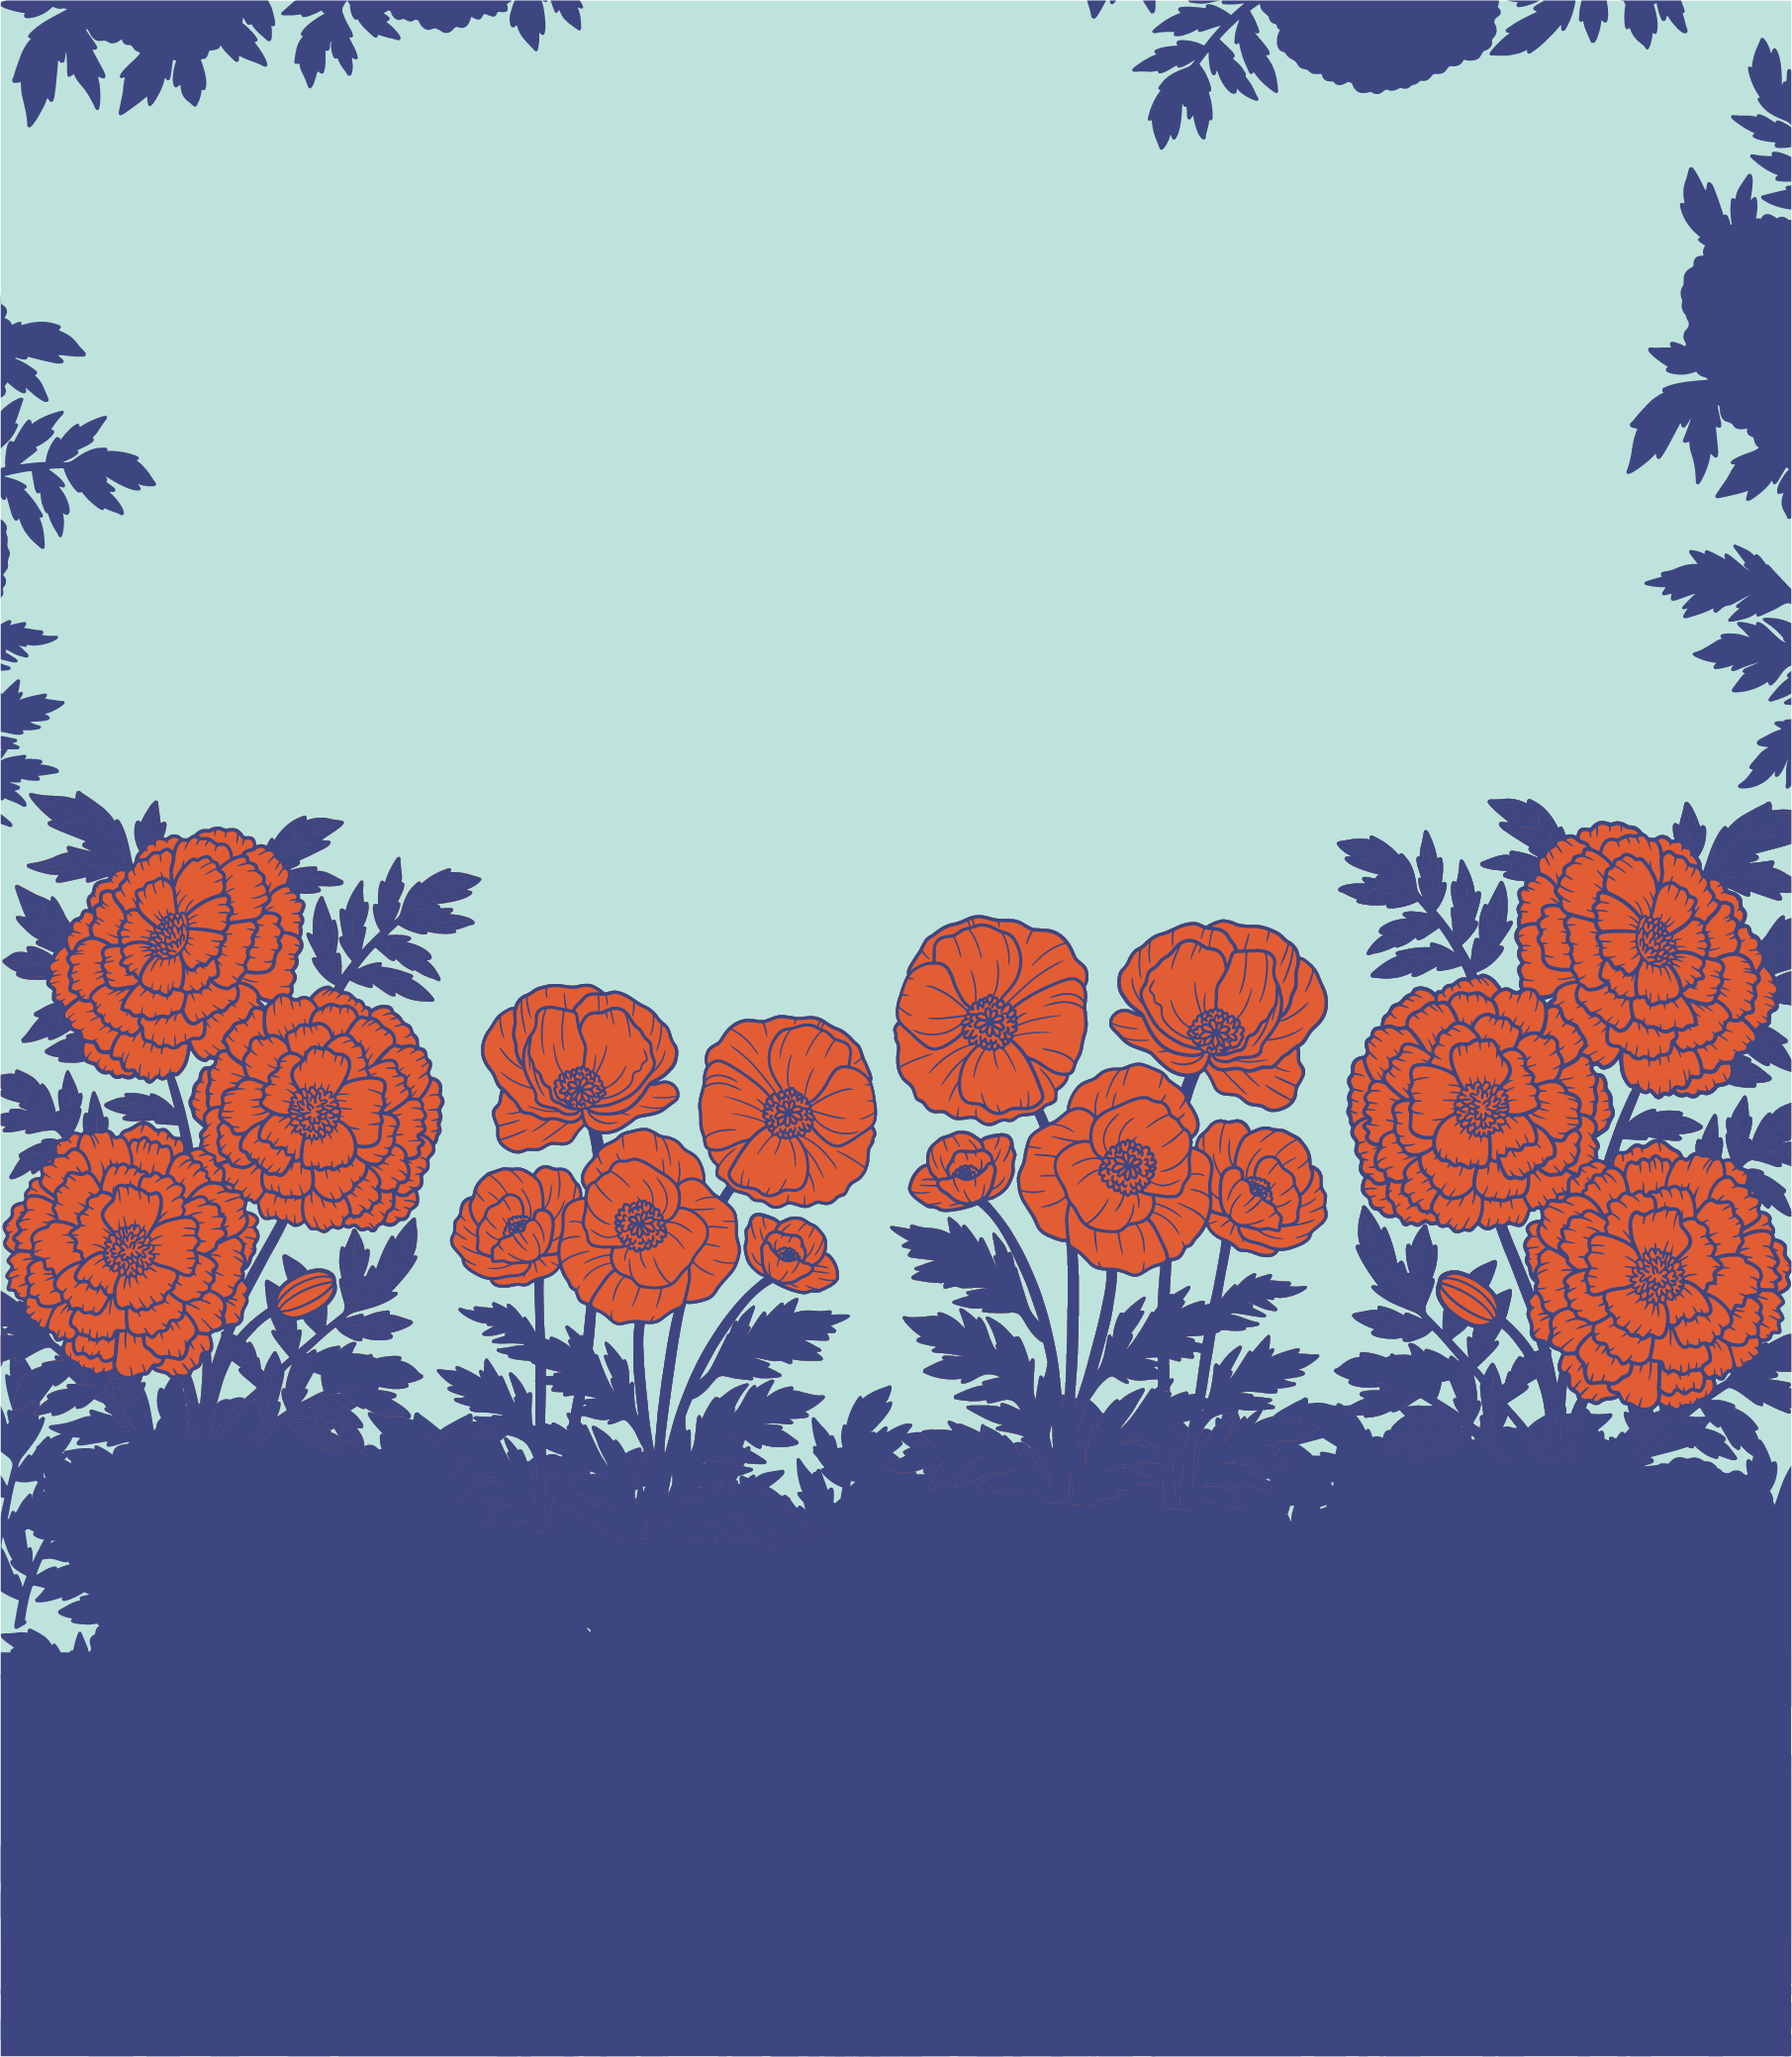
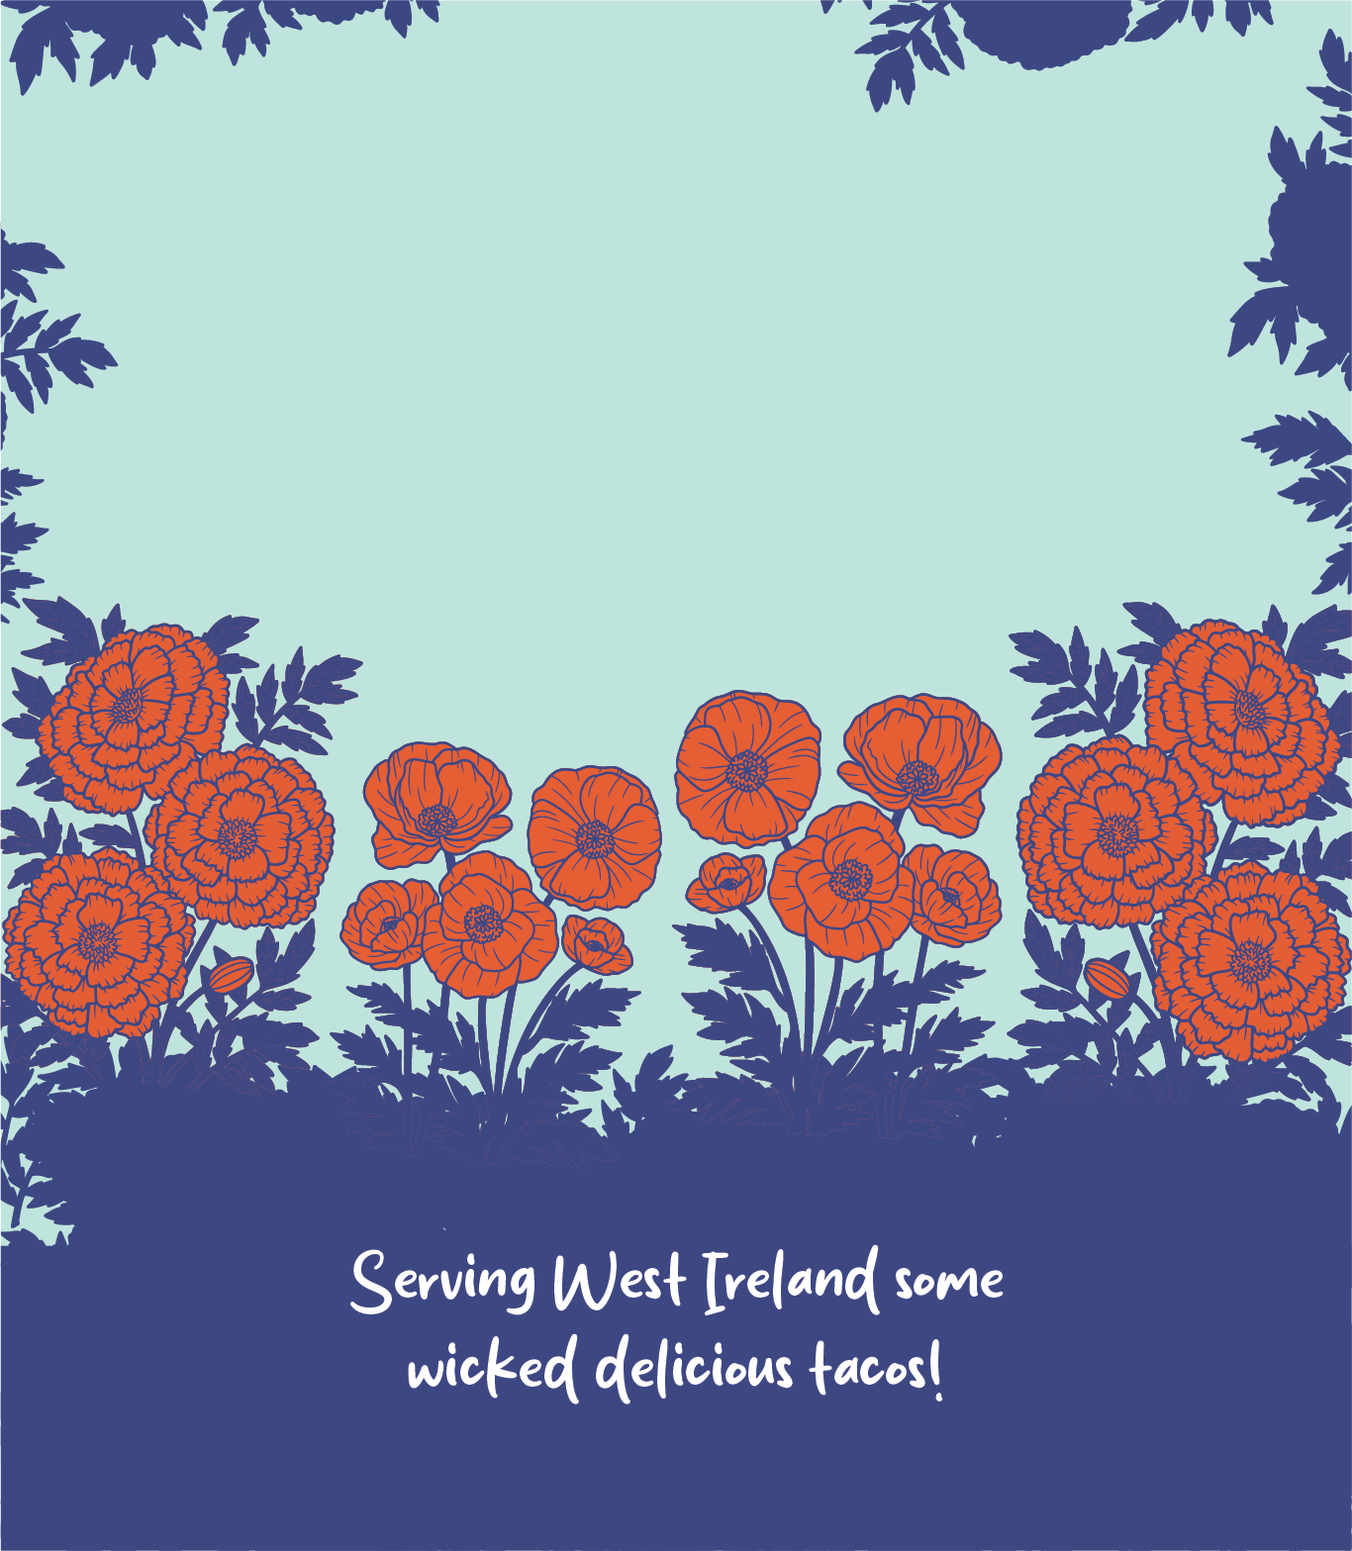
new home screen background and responsive styling

diff --git a/src/css/home.css b/src/css/home.css
@@ -61,10 +61,7 @@ a{
 }
 
 .home-logo{
-  width: 50%;
-  height: auto;
   position: absolute;
-  top: 15%;
   left: 50%;
   transform: translateX(-50%);
 }
@@ -97,7 +94,18 @@ a{
   align-items: center;
 }
 
-@media screen and (max-width: 479px) {
+@media screen and (max-width: 380px){
+  .home-background{
+    width: auto;
+    height: 100%;
+  }
+
+  .home-logo{
+    width: 50%;
+    height: auto;
+    top: 150px;
+  }
+
   .home-text{
     font-size: 8vw;
     width: 70%;
@@ -117,6 +125,78 @@ a{
   .home-lower-text{
     font-size: 3vw;
     margin: 10% 0 10% 0;
+  }
+
+  .bottom-flourish{
+    margin-bottom: 10%;
+  }
+}
+
+@media screen and (min-width: 380px) and (max-width: 479px) {
+  .home-logo{
+    width: 50%;
+    height: auto;
+    top: 130px;
+  }
+
+  .home-text{
+    font-size: 8vw;
+    width: 70%;
+  }
+
+  .truck-gif{
+    margin: 10% 0 10% 0;
+    width: 100%;
+    height: auto;
+  }
+
+  .flourish{
+    width: 30%;
+    height: auto;
+  }
+
+  .home-lower-text{
+    font-size: 3vw;
+    margin: 10% 0 10% 0;
+  }
+
+  .bottom-flourish{
+    margin-bottom: 10%;
+  }
+}
+
+@media screen and (min-width:480px) and (max-width: 768px){
+  .home-background{
+    width: 100%;
+    height:auto;
+  }
+
+  .home-logo{
+    width: 40%;
+    height: auto;
+    top: 60px;
+  }
+  
+  .home-text{
+    font-size: 8vw;
+    width: 70%;
+  }
+
+  .truck-gif{
+    margin: 10% 0 10% 0;
+    width: 100%;
+    height: auto;
+  }
+
+  .flourish{
+    width: 30%;
+    height: auto;
+  }
+
+  .home-lower-text{
+    font-size: 2.4vw;
+    margin: 10% 0 10% 0;
+    width: 65%;
   }
 
   .bottom-flourish{

diff --git a/src/css/footer.css b/src/css/footer.css
@@ -50,7 +50,7 @@ a{
 @media screen and (max-width: 479px) {
     .footer-logo{
         width: 30%;
-        margin: 5% 0 5% 0;
+        margin: 10% 0 5% 0;
     }
 
     .footer-contact-wrapper{
@@ -73,6 +73,40 @@ a{
 
     .footer-social-wrapper{
         margin-bottom: 10%;
+    }
+
+    .social{
+        transform: scale(2);
+        margin: 0 20px 0 20px;
+    }
+}
+
+@media screen and (min-width:480px) and (max-width: 768px){
+    .footer-logo{
+        width: 15%;
+        margin: 5% 0 2.5% 0;
+    }
+
+    .footer-contact-wrapper{
+        width: 100%;
+        margin-bottom: 3%;
+    }
+
+    .footer-text{
+        font-size: 3vw;
+        margin-bottom: 1.5%;
+    }
+
+    .footer-email, .divider{
+        font-size: 1.25vw;
+    }
+
+    .footer-contact-text{
+        font-size: 1.25vw;
+    }
+
+    .footer-social-wrapper{
+        margin-bottom: 5%;
     }
 
     .social{

diff --git a/src/css/menu.css b/src/css/menu.css
@@ -78,3 +78,44 @@
         height: 27px;
     }
 }
+
+@media screen and (min-width: 480px) and (max-width: 768px){
+    .header-text{
+        font-size: 2vw;
+    }
+
+    .menu-item{
+        width: 50%;
+    }
+
+    .menu-filler{
+        width: 10%;
+        margin-right: 5%;
+        margin-left: 10%;
+    }
+
+    .menu-banner{
+        width: auto;
+        height: 27px;
+        margin: 10% 0 5% 25%;
+    }
+
+    .menu-name{
+        font-size: 2.5vw;
+        margin-bottom: 2%;
+    }
+
+    .menu-description{
+        font-size: 2vw;
+        line-height: 1.5;
+    }
+
+    .menu-entry-wrapper{
+        margin-bottom: 10%;
+    }
+
+    .menu-flourish{
+        margin: 30% 0 10% 0;
+        height: 27px;
+    }
+}

diff --git a/src/components/Home.js b/src/components/Home.js
@@ -12,9 +12,6 @@ const Home = () => {
             <div className='home-wrapper'>
                 <img src={HomeBackgroundImage} alt='background' className='home-background'/>
                 <img src={HomeLogo} alt='logo' className='home-logo'/>
-                <div className='home-text'>
-                    Serving West Ireland some<br/>wicked delicious tacos!
-                </div>
             </div>
             <div className='home-lower-wrapper'>
                 <img src={TruckGif} alt='truck-gif' className='truck-gif'/>

diff --git a/src/css/header.css b/src/css/header.css
@@ -71,3 +71,28 @@
         width: 80%;
     }
 }
+
+@media screen and (min-width: 480px) and (max-width: 768px){
+    :root{
+        --header-height: 100px;
+    }
+    .header-wrapper{
+        height: var(--header-height);
+    }
+
+    .header-mid{
+        width: 10%;
+    }
+
+    .header-left{
+        width: 35%;
+    }
+
+    .header-right{
+        width: 48%;
+    }
+
+    .header-logo{
+        width: 60%;
+    }
+}

diff --git a/src/css/story.css b/src/css/story.css
@@ -63,6 +63,7 @@
 
     .intro-text-wrapper{
         width: 70%;
+        margin: 0 0 20% 0;
     }
 
     .intro-subtitle{
@@ -74,6 +75,7 @@
         font-size: 3vw;
         margin: 2% 0 2% 0;
     }
+
  
     .story-wrapper{
         width: 80%;
